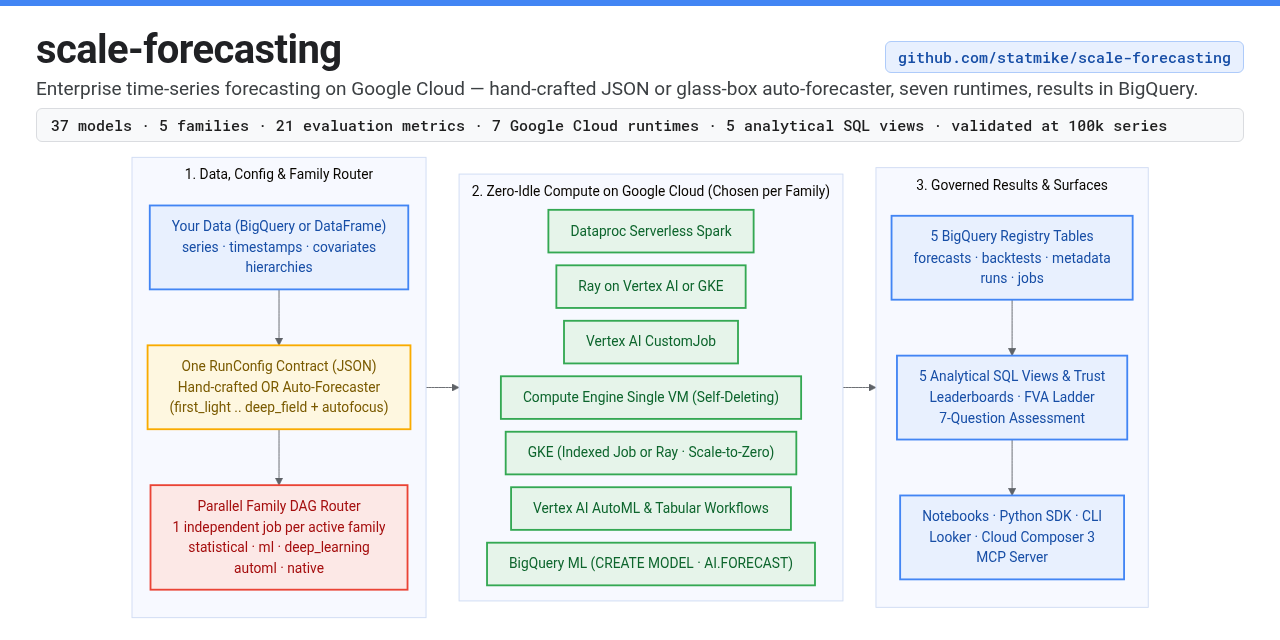
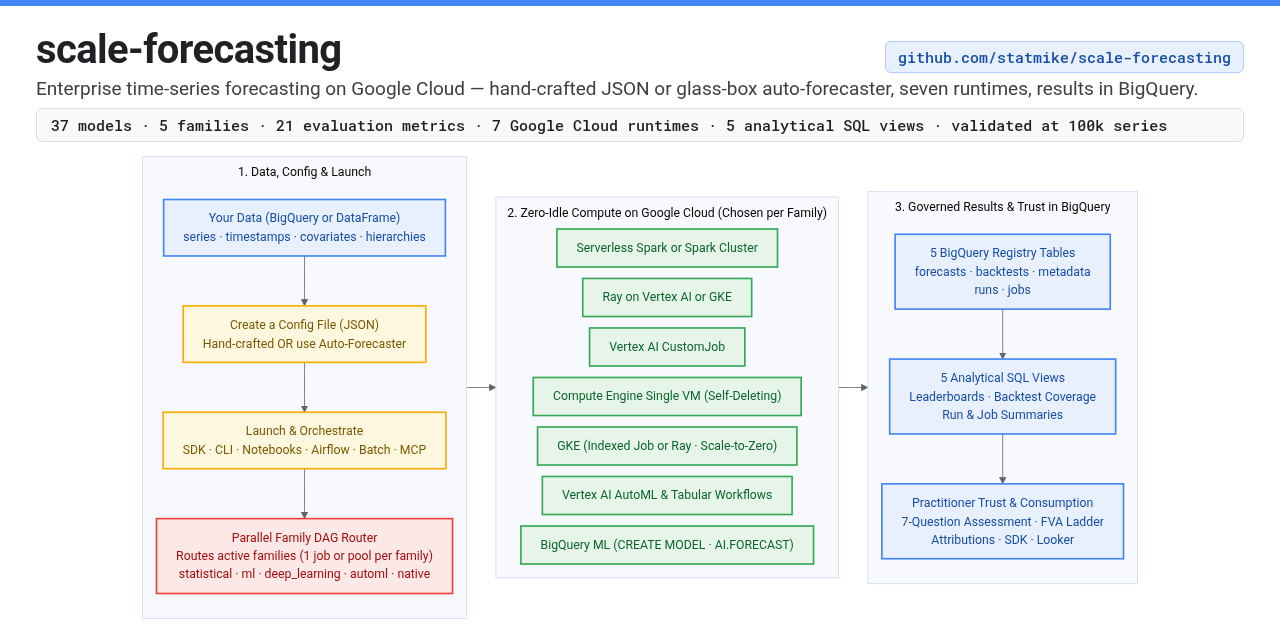
docs: refine hero Mermaid with Launch layer, simple Config node, and Serverless Spark / Spark Cluster

diff --git a/docs/assets/social_card.html b/docs/assets/social_card.html
@@ -89,16 +89,17 @@
   <p class="stats">37 models · 5 families · 21 evaluation metrics · 7 Google Cloud runtimes · 5 analytical SQL views · validated at 100k series</p>
   <pre class="mermaid">
 flowchart LR
-    subgraph PREP["1. Data, Config & Family Router"]
+    subgraph PREP["1. Data, Config & Launch"]
         direction TB
-        SRC["Your Data (BigQuery or DataFrame)<br/>series · timestamps · covariates<br/>hierarchies"]
-        CFG["One RunConfig Contract (JSON)<br/>Hand-crafted OR Auto-Forecaster<br/>(first_light .. deep_field + autofocus)"]
-        R["Parallel Family DAG Router<br/>1 independent job per active family<br/>statistical · ml · deep_learning<br/>automl · native"]
-        SRC --> CFG --> R
+        SRC["Your Data (BigQuery or DataFrame)<br/>series · timestamps · covariates · hierarchies"]
+        CFG["Create a Config File (JSON)<br/>Hand-crafted OR use Auto-Forecaster"]
+        LAUNCH["Launch & Orchestrate<br/>SDK · CLI · Notebooks · Airflow · Batch · MCP"]
+        R["Parallel Family DAG Router<br/>Routes active families (1 job or pool per family)<br/>statistical · ml · deep_learning · automl · native"]
+        SRC --> CFG --> LAUNCH --> R
     end
     subgraph RUN["2. Zero-Idle Compute on Google Cloud (Chosen per Family)"]
         direction LR
-        S["Dataproc Serverless Spark"]
+        S["Serverless Spark or Spark Cluster"]
         RY["Ray on Vertex AI or GKE"]
         V["Vertex AI CustomJob"]
         G["Compute Engine Single VM (Self-Deleting)"]
@@ -106,11 +107,11 @@ flowchart LR
         A["Vertex AI AutoML & Tabular Workflows"]
         B["BigQuery ML (CREATE MODEL · AI.FORECAST)"]
     end
-    subgraph OUT["3. Governed Results & Surfaces"]
+    subgraph OUT["3. Governed Results & Trust in BigQuery"]
         direction TB
         REG["5 BigQuery Registry Tables<br/>forecasts · backtests · metadata<br/>runs · jobs"]
-        VIEWS["5 Analytical SQL Views & Trust<br/>Leaderboards · FVA Ladder<br/>7-Question Assessment"]
-        USE["Notebooks · Python SDK · CLI<br/>Looker · Cloud Composer 3<br/>MCP Server"]
+        VIEWS["5 Analytical SQL Views<br/>Leaderboards · Backtest Coverage<br/>Run & Job Summaries"]
+        USE["Practitioner Trust & Consumption<br/>7-Question Assessment · FVA Ladder<br/>Attributions · SDK · Looker"]
         REG --> VIEWS --> USE
     end
 
@@ -121,7 +122,7 @@ flowchart LR
     classDef route fill:#FCE8E6,stroke:#EA4335,stroke-width:2px,color:#A50E0E
     classDef compute fill:#E6F4EA,stroke:#34A853,stroke-width:2px,color:#0D652D
     class SRC,REG,VIEWS,USE data
-    class CFG config
+    class CFG,LAUNCH config
     class R route
     class S,RY,V,G,K,A,B compute
   </pre>

diff --git a/README.md b/README.md
@@ -16,16 +16,17 @@
 
 ```mermaid
 flowchart LR
-    subgraph PREP["1. Data, Config & Family Router"]
+    subgraph PREP["1. Data, Config & Launch"]
         direction TB
-        SRC["Your Data (BigQuery or DataFrame)<br/>series · timestamps · covariates<br/>hierarchies"]
-        CFG["One RunConfig Contract (JSON)<br/>Hand-crafted OR Auto-Forecaster<br/>(first_light .. deep_field + autofocus)"]
-        R["Parallel Family DAG Router<br/>1 independent job per active family<br/>statistical · ml · deep_learning<br/>automl · native"]
-        SRC --> CFG --> R
+        SRC["Your Data (BigQuery or DataFrame)<br/>series · timestamps · covariates · hierarchies"]
+        CFG["Create a Config File (JSON)<br/>Hand-crafted OR use Auto-Forecaster"]
+        LAUNCH["Launch & Orchestrate<br/>SDK · CLI · Notebooks · Airflow · Batch · MCP"]
+        R["Parallel Family DAG Router<br/>Routes active families (1 job or pool per family)<br/>statistical · ml · deep_learning · automl · native"]
+        SRC --> CFG --> LAUNCH --> R
     end
     subgraph RUN["2. Zero-Idle Compute on Google Cloud (Chosen per Family)"]
         direction LR
-        S["Dataproc Serverless Spark"]
+        S["Serverless Spark or Spark Cluster"]
         RY["Ray on Vertex AI or GKE"]
         V["Vertex AI CustomJob"]
         G["Compute Engine Single VM (Self-Deleting)"]
@@ -33,11 +34,11 @@ flowchart LR
         A["Vertex AI AutoML & Tabular Workflows"]
         B["BigQuery ML (CREATE MODEL · AI.FORECAST)"]
     end
-    subgraph OUT["3. Governed Results & Surfaces"]
+    subgraph OUT["3. Governed Results & Trust in BigQuery"]
         direction TB
         REG["5 BigQuery Registry Tables<br/>forecasts · backtests · metadata<br/>runs · jobs"]
-        VIEWS["5 Analytical SQL Views & Trust<br/>Leaderboards · FVA Ladder<br/>7-Question Assessment"]
-        USE["Notebooks · Python SDK · CLI<br/>Looker · Cloud Composer 3<br/>MCP Server"]
+        VIEWS["5 Analytical SQL Views<br/>Leaderboards · Backtest Coverage<br/>Run & Job Summaries"]
+        USE["Practitioner Trust & Consumption<br/>7-Question Assessment · FVA Ladder<br/>Attributions · SDK · Looker"]
         REG --> VIEWS --> USE
     end
 
@@ -48,7 +49,7 @@ flowchart LR
     classDef route fill:#FCE8E6,stroke:#EA4335,stroke-width:2px,color:#A50E0E
     classDef compute fill:#E6F4EA,stroke:#34A853,stroke-width:2px,color:#0D652D
     class SRC,REG,VIEWS,USE data
-    class CFG config
+    class CFG,LAUNCH config
     class R route
     class S,RY,V,G,K,A,B compute
 ```

diff --git a/docs/overview.md b/docs/overview.md
@@ -4,16 +4,17 @@
 
 ```mermaid
 flowchart LR
-    subgraph PREP["1. Data, Config & Family Router"]
+    subgraph PREP["1. Data, Config & Launch"]
         direction TB
-        SRC["Your Data (BigQuery or DataFrame)<br/>series · timestamps · covariates<br/>hierarchies"]
-        CFG["One RunConfig Contract (JSON)<br/>Hand-crafted OR Auto-Forecaster<br/>(first_light .. deep_field + autofocus)"]
-        R["Parallel Family DAG Router<br/>1 independent job per active family<br/>statistical · ml · deep_learning<br/>automl · native"]
-        SRC --> CFG --> R
+        SRC["Your Data (BigQuery or DataFrame)<br/>series · timestamps · covariates · hierarchies"]
+        CFG["Create a Config File (JSON)<br/>Hand-crafted OR use Auto-Forecaster"]
+        LAUNCH["Launch & Orchestrate<br/>SDK · CLI · Notebooks · Airflow · Batch · MCP"]
+        R["Parallel Family DAG Router<br/>Routes active families (1 job or pool per family)<br/>statistical · ml · deep_learning · automl · native"]
+        SRC --> CFG --> LAUNCH --> R
     end
     subgraph RUN["2. Zero-Idle Compute on Google Cloud (Chosen per Family)"]
         direction LR
-        S["Dataproc Serverless Spark"]
+        S["Serverless Spark or Spark Cluster"]
         RY["Ray on Vertex AI or GKE"]
         V["Vertex AI CustomJob"]
         G["Compute Engine Single VM (Self-Deleting)"]
@@ -21,11 +22,11 @@ flowchart LR
         A["Vertex AI AutoML & Tabular Workflows"]
         B["BigQuery ML (CREATE MODEL · AI.FORECAST)"]
     end
-    subgraph OUT["3. Governed Results & Surfaces"]
+    subgraph OUT["3. Governed Results & Trust in BigQuery"]
         direction TB
         REG["5 BigQuery Registry Tables<br/>forecasts · backtests · metadata<br/>runs · jobs"]
-        VIEWS["5 Analytical SQL Views & Trust<br/>Leaderboards · FVA Ladder<br/>7-Question Assessment"]
-        USE["Notebooks · Python SDK · CLI<br/>Looker · Cloud Composer 3<br/>MCP Server"]
+        VIEWS["5 Analytical SQL Views<br/>Leaderboards · Backtest Coverage<br/>Run & Job Summaries"]
+        USE["Practitioner Trust & Consumption<br/>7-Question Assessment · FVA Ladder<br/>Attributions · SDK · Looker"]
         REG --> VIEWS --> USE
     end
 
@@ -36,7 +37,7 @@ flowchart LR
     classDef route fill:#FCE8E6,stroke:#EA4335,stroke-width:2px,color:#A50E0E
     classDef compute fill:#E6F4EA,stroke:#34A853,stroke-width:2px,color:#0D652D
     class SRC,REG,VIEWS,USE data
-    class CFG config
+    class CFG,LAUNCH config
     class R route
     class S,RY,V,G,K,A,B compute
 ```
